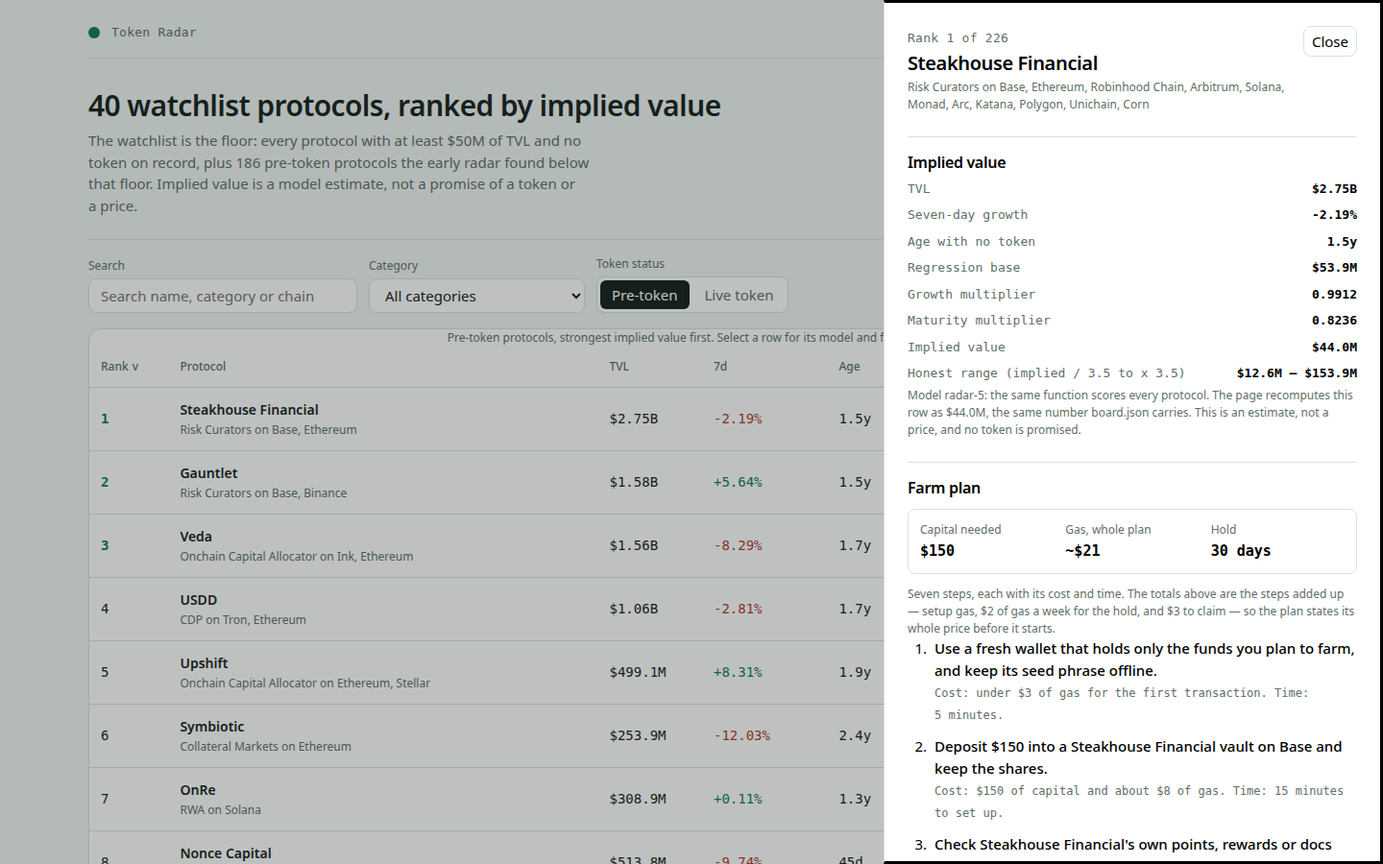
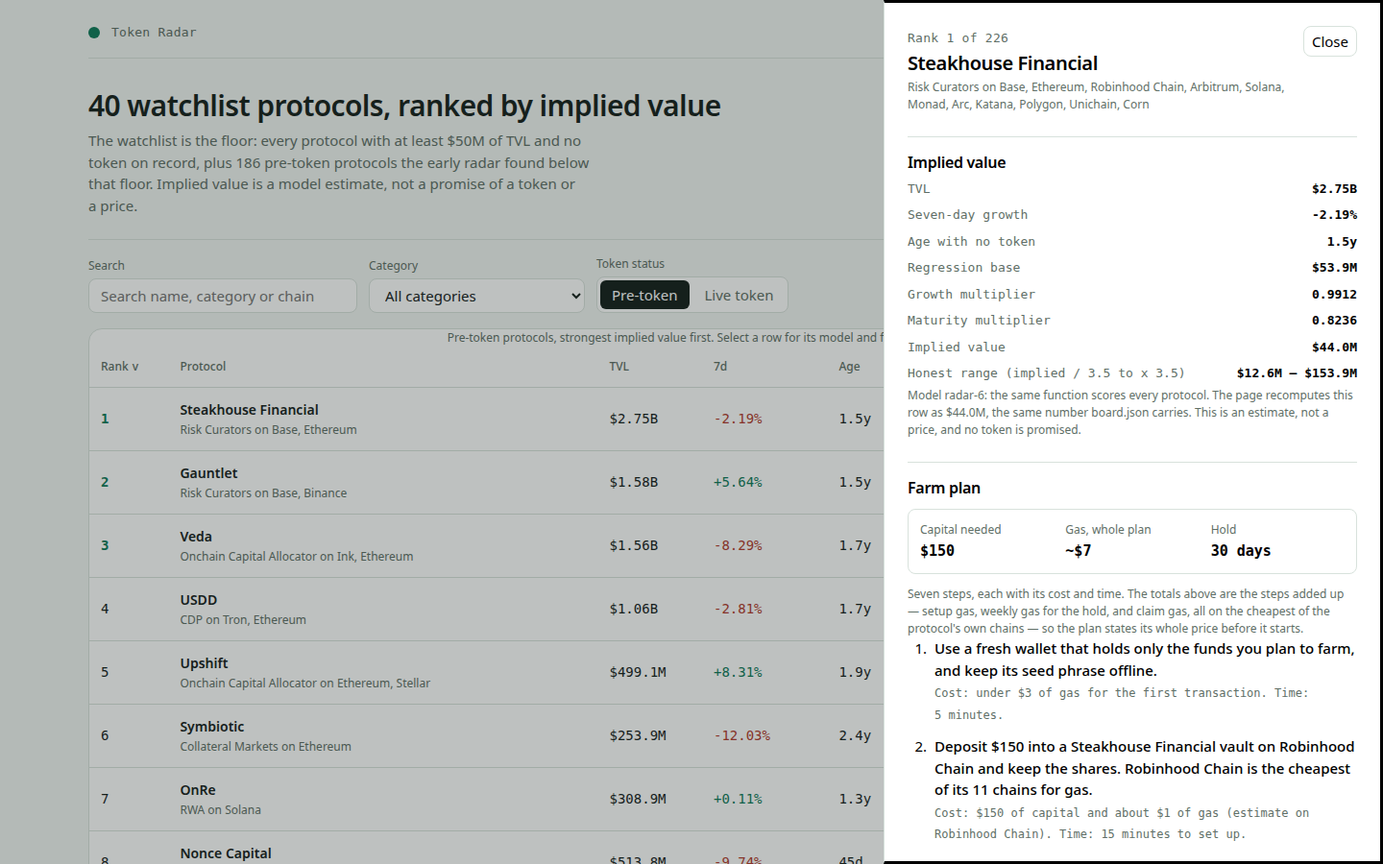
radar-6: farm plans differ per protocol - category weekly action, points page, risk note, cheapest chain, tiered gas

Changed region(s): [[0.6562, 0.84, 0.9688, 0.9956], [0.6562, 0.6844, 0.9688, 0.7467]]

diff --git a/lib/model.ts b/lib/model.ts
@@ -1,6 +1,6 @@
 import { createHash } from 'node:crypto';
 
-// radar-5: the token radar's scoring model.
+// radar-6: the token radar's scoring model.
 //
 // One sealed snapshot goes in, one ranked board comes out. The board always
 // covers the whole watchlist — the watchlist is a floor, never a ceiling —
@@ -59,7 +59,11 @@ import { createHash } from 'node:crypto';
 // discloses where the fit is biased by category instead of correcting for
 // it, because category offsets made the held-out error worse. Every farm
 // plan carries its totals — capital, gas, hold — added up from its own
-// steps, so the plan states its whole price before it starts.
+// steps, so the plan states its whole price before it starts. And no two
+// plans are the same template: the weekly action, the points page, the risk
+// note, the chain and the gas all follow from the protocol's own category
+// and chains, with gas tiered by chain and the cheapest of a protocol's own
+// chains chosen for the action.
 
 /** One protocol entry: exactly the ten fields the sealed input carries. */
 export interface SnapshotProtocol {
@@ -106,7 +110,7 @@ export const MODEL: ModelConstants = {
 };
 
 /** The model's version label: the dashboard names it. */
-export const MODEL_VERSION = 'radar-5';
+export const MODEL_VERSION = 'radar-6';
 
 /** Pre-token protocols below the watchlist floor the early radar carries, by TVL. */
 export const EARLY_ROWS = 260;
@@ -481,9 +485,36 @@ export function stepText(step: FarmStep): string {
   return s;
 }
 
-/** The first chain a protocol names, or a neutral phrase when it names none. */
-function chainOf(p: SnapshotProtocol): string {
-  return p.chains.length > 0 ? p.chains[0]! : 'its main chain';
+/** A chain's gas tier: how expensive its transactions are, in rough bands. Only Ethereum and Bitcoin sit in the high band; the named L2s sit in the middle; everything else — the cheap L1s and the chains this table does not name — sits in the low band. The figures are estimates, and the plan labels them as such. */
+export type GasTier = 'high' | 'mid' | 'low';
+
+const MID_TIER_CHAINS = new Set([
+  'Arbitrum', 'Optimism', 'Base', 'Polygon', 'zkSync Era', 'Linea', 'Scroll', 'Blast', 'Ink', 'Mode', 'Fraxtal', 'Mantle', 'Unichain', 'Sonic', 'Berachain', 'Hyperliquid L1', 'Monad', 'Plasma',
+]);
+
+/** Gas in dollars for one setup, one weekly action, and one claim, by tier. */
+const GAS_USD: Record<GasTier, { setup: number; weekly: number; claim: number }> = {
+  high: { setup: 15, weekly: 10, claim: 5 },
+  mid: { setup: 4, weekly: 2, claim: 2 },
+  low: { setup: 1, weekly: 1, claim: 1 },
+};
+
+/** A chain's gas tier from its name. */
+export function chainTier(chain: string): GasTier {
+  if (chain === 'Ethereum' || chain === 'Bitcoin') return 'high';
+  if (MID_TIER_CHAINS.has(chain)) return 'mid';
+  return 'low';
+}
+
+/** The cheapest chain a protocol runs on, by gas tier; ties keep the first chain the snapshot lists. */
+export function cheapestChain(p: SnapshotProtocol): { chain: string; tier: GasTier } {
+  if (p.chains.length === 0) return { chain: 'its main chain', tier: 'mid' };
+  const rank: Record<GasTier, number> = { high: 2, mid: 1, low: 0 };
+  let best = p.chains[0]!;
+  for (const chain of p.chains) {
+    if (rank[chainTier(chain)] < rank[chainTier(best)]) best = chain;
+  }
+  return { chain: best, tier: chainTier(best) };
 }
 
 /** The capital one farm position needs, from the protocol's own TVL. */
@@ -504,47 +535,115 @@ function holdDaysFor(age: number | null): number {
 
 /**
  * A farm plan's totals, added up from the plan's own numbers: the setup gas
- * of step 2, $2 of gas a week for the hold from step 4, and $3 to claim from
- * step 6. The summary and the steps are one arithmetic, so they can never
- * disagree — and a reader sees the whole cost of a plan before reading it.
+ * of step 2, the weekly gas for the hold from step 4, and the claim gas —
+ * all on the cheapest of the protocol's own chains. The summary and the
+ * steps are one arithmetic, so they can never disagree — and a reader sees
+ * the whole cost of a plan before reading it.
  */
 export function farmSummary(p: SnapshotProtocol, age: number | null): FarmSummary {
   const capital = capitalFor(p);
   const hold = holdDaysFor(age);
   const weeks = Math.ceil(hold / 7);
-  const setupGas = capital >= 150 ? 8 : 4;
-  return { capital_usd: capital, gas_usd: setupGas + 2 * weeks + 3, hold_days: hold };
+  const gas = GAS_USD[cheapestChain(p).tier];
+  return { capital_usd: capital, gas_usd: gas.setup + gas.weekly * weeks + gas.claim, hold_days: hold };
+}
+
+/** One of the eleven kinds a category falls into, in the order the branches below check. */
+type CategoryKind = 'lending' | 'dex' | 'bridge' | 'staking' | 'perps' | 'prediction' | 'curator' | 'stable' | 'rwa' | 'insurance' | 'other';
+
+/** A protocol's kind from its category name, lowercased. */
+function categoryKind(p: SnapshotProtocol): CategoryKind {
+  const c = (p.category ?? '').toLowerCase();
+  if (c.includes('lend') || c.includes('cdp') || c.includes('collateral')) return 'lending';
+  if (c.includes('dex') || c.includes('yield') || c.includes('leveraged farm')) return 'dex';
+  if (c.includes('bridge')) return 'bridge';
+  if (c.includes('staking') || c.includes('restak')) return 'staking';
+  if (c.includes('perpetual') || c.includes('derivative')) return 'perps';
+  if (c.includes('prediction')) return 'prediction';
+  if (c.includes('curator') || c.includes('allocator')) return 'curator';
+  if (c.includes('stable')) return 'stable';
+  if (c.includes('rwa')) return 'rwa';
+  if (c.includes('insurance')) return 'insurance';
+  return 'other';
 }
 
 /** The one action for a category, in words a farmer can follow. */
 function actionFor(p: SnapshotProtocol, capital: number, chain: string): string {
-  const c = (p.category ?? '').toLowerCase();
   const name = p.name;
-  if (c.includes('lend') || c.includes('cdp') || c.includes('collateral')) return `Supply $${capital} of USDC to ${name} on ${chain} and keep the position open.`;
-  if (c.includes('dex') || c.includes('yield') || c.includes('leveraged farm')) return `Provide $${capital} of liquidity to ${name}'s main pool on ${chain} and keep the position open.`;
-  if (c.includes('bridge')) return `Bridge $${capital} of USDC to ${chain} through ${name} and use the bridged funds in its app.`;
-  if (c.includes('staking') || c.includes('restak')) return `Stake $${capital} of the chain's staking asset through ${name} and keep the receipt.`;
-  if (c.includes('perpetual') || c.includes('derivative')) return `Deposit $${capital} of USDC as margin on ${name} and open one small hedge.`;
-  if (c.includes('prediction')) return `Fund $${capital} and place one market position on ${name}.`;
-  if (c.includes('curator') || c.includes('allocator')) return `Deposit $${capital} into a ${name} vault on ${chain} and keep the shares.`;
-  if (c.includes('stable')) return `Mint or deposit $${capital} of the stable asset through ${name} on ${chain}.`;
-  if (c.includes('rwa')) return `Mint $${capital} of the protocol's yield asset on ${chain} and hold it.`;
-  if (c.includes('insurance')) return `Buy $${capital} of cover from ${name} on ${chain} and keep the policy.`;
-  return `Deposit $${capital} of USDC into ${name} on ${chain} and keep the position open.`;
+  switch (categoryKind(p)) {
+    case 'lending': return `Supply $${capital} of USDC to ${name} on ${chain} and keep the position open.`;
+    case 'dex': return `Provide $${capital} of liquidity to ${name}'s main pool on ${chain} and keep the position open.`;
+    case 'bridge': return `Bridge $${capital} of USDC to ${chain} through ${name} and use the bridged funds in its app.`;
+    case 'staking': return `Stake $${capital} of the chain's staking asset through ${name} and keep the receipt.`;
+    case 'perps': return `Deposit $${capital} of USDC as margin on ${name} and open one small hedge.`;
+    case 'prediction': return `Fund $${capital} and place one market position on ${name}.`;
+    case 'curator': return `Deposit $${capital} into a ${name} vault on ${chain} and keep the shares.`;
+    case 'stable': return `Mint or deposit $${capital} of the stable asset through ${name} on ${chain}.`;
+    case 'rwa': return `Mint $${capital} of the protocol's yield asset on ${chain} and hold it.`;
+    case 'insurance': return `Buy $${capital} of cover from ${name} on ${chain} and keep the policy.`;
+    default: return `Deposit $${capital} of USDC into ${name} on ${chain} and keep the position open.`;
+  }
+}
+
+/** The page to check for points or rewards: the protocol's own page for the thing it actually does. */
+function pointsCheckFor(p: SnapshotProtocol): string {
+  const name = p.name;
+  switch (categoryKind(p)) {
+    case 'curator': return `Check ${name}'s vault allocation and rewards page and note exactly which vault actions it counts, if any.`;
+    case 'perps': return `Check ${name}'s trading rewards and fees page and note exactly which trades it counts, if any.`;
+    case 'staking': return `Check ${name}'s staking rewards and unstaking page and note exactly which stakes it counts, if any.`;
+    case 'bridge': return `Check ${name}'s bridging rewards page and note exactly which transfers it counts, if any.`;
+    case 'dex': return `Check ${name}'s liquidity rewards page and note exactly which pools it counts, if any.`;
+    default: return `Check ${name}'s own points, rewards or docs page and note exactly which actions it counts, if any.`;
+  }
+}
+
+/** The weekly action: one small qualifying action, in the protocol's own terms, not a generic list. */
+function weeklyActionFor(p: SnapshotProtocol): string {
+  const name = p.name;
+  switch (categoryKind(p)) {
+    case 'lending': return `Each week, supply a little more to ${name}, or repay and reborrow a small amount.`;
+    case 'dex': return `Each week, add a small amount of liquidity, or make one swap, on ${name}.`;
+    case 'bridge': return `Each week, bridge a small amount back, or use the bridged funds in ${name}'s app.`;
+    case 'staking': return `Each week, restake the rewards, or add a small stake, through ${name}.`;
+    case 'perps': return `Each week, open and close one small hedge on ${name}.`;
+    case 'prediction': return `Each week, place one small market position on ${name}.`;
+    case 'curator': return `Each week, check the vault's allocation and top up or rebalance a small amount in ${name}.`;
+    case 'stable': return `Each week, hold the position and check the peg on ${name}.`;
+    case 'rwa': return `Each week, hold the position and check the yield page on ${name}.`;
+    case 'insurance': return `Each week, keep the policy and check its renewal terms on ${name}.`;
+    default: return `Each week, make one qualifying action in ${name}'s own app.`;
+  }
+}
+
+/** The risk clause for a category, added to the safety step: what can actually go wrong here. */
+function riskNoteFor(p: SnapshotProtocol): string {
+  switch (categoryKind(p)) {
+    case 'perps': return ` Leverage can liquidate a position fast, so keep the hedge small.`;
+    case 'lending': return ` Watch borrow utilisation and liquidation prices before adding to a borrow.`;
+    case 'dex': return ` Liquidity can lose value to impermanent loss, so keep the position small.`;
+    case 'bridge': return ` Check the destination chain and finality before bridging.`;
+    case 'staking': return ` Unstaking can take days, so do not stake funds you may need soon.`;
+    default: return ``;
+  }
 }
 
 /**
  * A protocol's farm plan: seven steps, each an action with a cost and a time.
- * The plan is derived from the protocol's own record (category, chains, TVL,
- * age), never from a hand-written list of names. No step promises a token or
+ * Every step is derived from the protocol's own record (category, chains,
+ * TVL, age), never from a hand-written list of names: the action, the weekly
+ * action, the points page, the risk note, the chain and the gas all follow
+ * from what the protocol is and where it runs. No step promises a token or
  * an airdrop: the protocol records no token, and a farm plan is a way to use
  * it, not a guarantee of a launch.
  */
 export function farmSteps(p: SnapshotProtocol, age: number | null): FarmStep[] {
-  const chain = chainOf(p);
+  const best = cheapestChain(p);
   const capital = capitalFor(p);
   const hold = holdDaysFor(age);
-  const action = actionFor(p, capital, chain);
+  const gas = GAS_USD[best.tier];
+  const action = actionFor(p, capital, best.chain);
+  const multiChain = p.chains.length > 1 ? ` ${best.chain} is the cheapest of its ${p.chains.length} chains for gas.` : ``;
   return [
     {
       text: `Use a fresh wallet that holds only the funds you plan to farm, and keep its seed phrase offline.`,
@@ -552,18 +651,18 @@ export function farmSteps(p: SnapshotProtocol, age: number | null): FarmStep[] {
       time: '5 minutes',
     },
     {
-      text: action,
-      cost: `$${capital} of capital and about $${capital >= 150 ? 8 : 4} of gas`,
+      text: `${action}${multiChain}`,
+      cost: `$${capital} of capital and about $${gas.setup} of gas (estimate on ${best.chain})`,
       time: '15 minutes to set up',
     },
     {
-      text: `Check ${p.name}'s own points, rewards or docs page and note exactly which actions it counts, if any.`,
+      text: pointsCheckFor(p),
       cost: 'no fee to check',
       time: '10 minutes',
     },
     {
-      text: `Make one qualifying action each week, such as a deposit, a borrow, a swap or a vote.`,
-      cost: 'about $2 of gas a week',
+      text: weeklyActionFor(p),
+      cost: `about $${gas.weekly} of gas a week (estimate)`,
       time: '10 minutes a week',
     },
     {
@@ -572,7 +671,7 @@ export function farmSteps(p: SnapshotProtocol, age: number | null): FarmStep[] {
       time: `${hold} days`,
     },
     {
-      text: `Never pay to claim, never sign a blind transaction, and never share a seed phrase; a real claim costs only gas.`,
+      text: `Never pay to claim, never sign a blind transaction, and never share a seed phrase; a real claim costs only gas.${riskNoteFor(p)}`,
       cost: 'no fee to check, and never pay to claim',
       time: '5 minutes',
     },

diff --git a/dashboard/app.js b/dashboard/app.js
@@ -69,9 +69,25 @@
   }
 
   // The farm plan is the same derivation main.ts writes to board.json:
-  // category, chains, TVL and age decide the action, the capital, the hold
-  // and every cost and time. No name is special-cased.
-  function chainOf(p) { return p.chains && p.chains.length > 0 ? p.chains[0] : 'its main chain'; }
+  // category, chains, TVL and age decide the action, the weekly action, the
+  // points page, the risk note, the cheapest chain and every cost and time.
+  // No name is special-cased. This mirror must stay byte-identical to the
+  // model's farmSteps: the detail drawer rebuilds the plan from data.js,
+  // and a mismatch would show a different plan than board.json carries.
+  var MID_TIER_CHAINS = ['Arbitrum', 'Optimism', 'Base', 'Polygon', 'zkSync Era', 'Linea', 'Scroll', 'Blast', 'Ink', 'Mode', 'Fraxtal', 'Mantle', 'Unichain', 'Sonic', 'Berachain', 'Hyperliquid L1', 'Monad', 'Plasma'];
+  var GAS_USD = { high: { setup: 15, weekly: 10, claim: 5 }, mid: { setup: 4, weekly: 2, claim: 2 }, low: { setup: 1, weekly: 1, claim: 1 } };
+  function chainTier(chain) {
+    if (chain === 'Ethereum' || chain === 'Bitcoin') return 'high';
+    if (MID_TIER_CHAINS.indexOf(chain) >= 0) return 'mid';
+    return 'low';
+  }
+  function cheapestChain(p) {
+    if (!p.chains || p.chains.length === 0) return { chain: 'its main chain', tier: 'mid' };
+    var rank = { high: 2, mid: 1, low: 0 };
+    var best = p.chains[0];
+    p.chains.forEach(function (chain) { if (rank[chainTier(chain)] < rank[chainTier(best)]) best = chain; });
+    return { chain: best, tier: chainTier(best) };
+  }
   function capitalFor(p) {
     if (p.tvl_usd >= 5e9) return 250;
     if (p.tvl_usd >= 1e9) return 150;
@@ -84,20 +100,72 @@
     if (age < 365) return 45;
     return 30;
   }
-  function actionFor(p, capital, chain) {
+  function categoryKind(p) {
     var c = (p.category || '').toLowerCase();
+    if (c.indexOf('lend') >= 0 || c.indexOf('cdp') >= 0 || c.indexOf('collateral') >= 0) return 'lending';
+    if (c.indexOf('dex') >= 0 || c.indexOf('yield') >= 0 || c.indexOf('leveraged farm') >= 0) return 'dex';
+    if (c.indexOf('bridge') >= 0) return 'bridge';
+    if (c.indexOf('staking') >= 0 || c.indexOf('restak') >= 0) return 'staking';
+    if (c.indexOf('perpetual') >= 0 || c.indexOf('derivative') >= 0) return 'perps';
+    if (c.indexOf('prediction') >= 0) return 'prediction';
+    if (c.indexOf('curator') >= 0 || c.indexOf('allocator') >= 0) return 'curator';
+    if (c.indexOf('stable') >= 0) return 'stable';
+    if (c.indexOf('rwa') >= 0) return 'rwa';
+    if (c.indexOf('insurance') >= 0) return 'insurance';
+    return 'other';
+  }
+  function actionFor(p, capital, chain) {
     var name = p.name;
-    if (c.indexOf('lend') >= 0 || c.indexOf('cdp') >= 0 || c.indexOf('collateral') >= 0) return 'Supply $' + capital + ' of USDC to ' + name + ' on ' + chain + ' and keep the position open.';
-    if (c.indexOf('dex') >= 0 || c.indexOf('yield') >= 0 || c.indexOf('leveraged farm') >= 0) return 'Provide $' + capital + ' of liquidity to ' + name + "'s main pool on " + chain + ' and keep the position open.';
-    if (c.indexOf('bridge') >= 0) return 'Bridge $' + capital + ' of USDC to ' + chain + ' through ' + name + ' and use the bridged funds in its app.';
-    if (c.indexOf('staking') >= 0 || c.indexOf('restak') >= 0) return "Stake $" + capital + " of the chain's staking asset through " + name + ' and keep the receipt.';
-    if (c.indexOf('perpetual') >= 0 || c.indexOf('derivative') >= 0) return 'Deposit $' + capital + ' of USDC as margin on ' + name + ' and open one small hedge.';
-    if (c.indexOf('prediction') >= 0) return 'Fund $' + capital + ' and place one market position on ' + name + '.';
-    if (c.indexOf('curator') >= 0 || c.indexOf('allocator') >= 0) return 'Deposit $' + capital + ' into a ' + name + ' vault on ' + chain + ' and keep the shares.';
-    if (c.indexOf('stable') >= 0) return 'Mint or deposit $' + capital + ' of the stable asset through ' + name + ' on ' + chain + '.';
-    if (c.indexOf('rwa') >= 0) return "Mint $" + capital + " of the protocol's yield asset on " + chain + ' and hold it.';
-    if (c.indexOf('insurance') >= 0) return 'Buy $' + capital + ' of cover from ' + name + ' on ' + chain + ' and keep the policy.';
-    return 'Deposit $' + capital + ' of USDC into ' + name + ' on ' + chain + ' and keep the position open.';
+    switch (categoryKind(p)) {
+      case 'lending': return 'Supply $' + capital + ' of USDC to ' + name + ' on ' + chain + ' and keep the position open.';
+      case 'dex': return 'Provide $' + capital + ' of liquidity to ' + name + "'s main pool on " + chain + ' and keep the position open.';
+      case 'bridge': return 'Bridge $' + capital + ' of USDC to ' + chain + ' through ' + name + ' and use the bridged funds in its app.';
+      case 'staking': return "Stake $" + capital + " of the chain's staking asset through " + name + ' and keep the receipt.';
+      case 'perps': return 'Deposit $' + capital + ' of USDC as margin on ' + name + ' and open one small hedge.';
+      case 'prediction': return 'Fund $' + capital + ' and place one market position on ' + name + '.';
+      case 'curator': return 'Deposit $' + capital + ' into a ' + name + ' vault on ' + chain + ' and keep the shares.';
+      case 'stable': return 'Mint or deposit $' + capital + ' of the stable asset through ' + name + ' on ' + chain + '.';
+      case 'rwa': return "Mint $" + capital + " of the protocol's yield asset on " + chain + ' and hold it.';
+      case 'insurance': return 'Buy $' + capital + ' of cover from ' + name + ' on ' + chain + ' and keep the policy.';
+      default: return 'Deposit $' + capital + ' of USDC into ' + name + ' on ' + chain + ' and keep the position open.';
+    }
+  }
+  function pointsCheckFor(p) {
+    var name = p.name;
+    switch (categoryKind(p)) {
+      case 'curator': return "Check " + name + "'s vault allocation and rewards page and note exactly which vault actions it counts, if any.";
+      case 'perps': return "Check " + name + "'s trading rewards and fees page and note exactly which trades it counts, if any.";
+      case 'staking': return "Check " + name + "'s staking rewards and unstaking page and note exactly which stakes it counts, if any.";
+      case 'bridge': return "Check " + name + "'s bridging rewards page and note exactly which transfers it counts, if any.";
+      case 'dex': return "Check " + name + "'s liquidity rewards page and note exactly which pools it counts, if any.";
+      default: return "Check " + name + "'s own points, rewards or docs page and note exactly which actions it counts, if any.";
+    }
+  }
+  function weeklyActionFor(p) {
+    var name = p.name;
+    switch (categoryKind(p)) {
+      case 'lending': return 'Each week, supply a little more to ' + name + ', or repay and reborrow a small amount.';
+      case 'dex': return 'Each week, add a small amount of liquidity, or make one swap, on ' + name + '.';
+      case 'bridge': return 'Each week, bridge a small amount back, or use the bridged funds in ' + name + "'s app.";
+      case 'staking': return 'Each week, restake the rewards, or add a small stake, through ' + name + '.';
+      case 'perps': return 'Each week, open and close one small hedge on ' + name + '.';
+      case 'prediction': return 'Each week, place one small market position on ' + name + '.';
+      case 'curator': return 'Each week, check the vault\'s allocation and top up or rebalance a small amount in ' + name + '.';
+      case 'stable': return 'Each week, hold the position and check the peg on ' + name + '.';
+      case 'rwa': return 'Each week, hold the position and check the yield page on ' + name + '.';
+      case 'insurance': return 'Each week, keep the policy and check its renewal terms on ' + name + '.';
+      default: return 'Each week, make one qualifying action in ' + name + "'s own app.";
+    }
+  }
+  function riskNoteFor(p) {
+    switch (categoryKind(p)) {
+      case 'perps': return ' Leverage can liquidate a position fast, so keep the hedge small.';
+      case 'lending': return ' Watch borrow utilisation and liquidation prices before adding to a borrow.';
+      case 'dex': return ' Liquidity can lose value to impermanent loss, so keep the position small.';
+      case 'bridge': return ' Check the destination chain and finality before bridging.';
+      case 'staking': return ' Unstaking can take days, so do not stake funds you may need soon.';
+      default: return '';
+    }
   }
   function stepText(step) {
     var s = step.text + ' Cost: ' + step.cost + '. Time: ' + step.time + '.';
@@ -106,16 +174,18 @@
     return s;
   }
   function farmSteps(p) {
-    var chain = chainOf(p);
+    var best = cheapestChain(p);
     var capital = capitalFor(p);
     var hold = holdDaysFor(p.age_days);
+    var gas = GAS_USD[best.tier];
+    var multiChain = p.chains && p.chains.length > 1 ? ' ' + best.chain + ' is the cheapest of its ' + p.chains.length + ' chains for gas.' : '';
     return [
       { text: 'Use a fresh wallet that holds only the funds you plan to farm, and keep its seed phrase offline.', cost: 'under $3 of gas for the first transaction', time: '5 minutes' },
-      { text: actionFor(p, capital, chain), cost: '$' + capital + ' of capital and about $' + (capital >= 150 ? 8 : 4) + ' of gas', time: '15 minutes to set up' },
-      { text: "Check " + p.name + "'s own points, rewards or docs page and note exactly which actions it counts, if any.", cost: 'no fee to check', time: '10 minutes' },
-      { text: 'Make one qualifying action each week, such as a deposit, a borrow, a swap or a vote.', cost: 'about $2 of gas a week', time: '10 minutes a week' },
+      { text: actionFor(p, capital, best.chain) + multiChain, cost: '$' + capital + ' of capital and about $' + gas.setup + ' of gas (estimate on ' + best.chain + ')', time: '15 minutes to set up' },
+      { text: pointsCheckFor(p), cost: 'no fee to check', time: '10 minutes' },
+      { text: weeklyActionFor(p), cost: 'about $' + gas.weekly + ' of gas a week (estimate)', time: '10 minutes a week' },
       { text: 'Hold the position for at least ' + hold + ' days so the activity is counted in more than one snapshot.', cost: 'the $' + capital + ' stays in the position', time: hold + ' days' },
-      { text: 'Never pay to claim, never sign a blind transaction, and never share a seed phrase; a real claim costs only gas.', cost: 'no fee to check, and never pay to claim', time: '5 minutes' },
+      { text: 'Never pay to claim, never sign a blind transaction, and never share a seed phrase; a real claim costs only gas.' + riskNoteFor(p), cost: 'no fee to check, and never pay to claim', time: '5 minutes' },
       { text: "Before you withdraw, open the protocol's own points or rewards page and claim only from the link it publishes, then log the wallet, dates and every transaction.", cost: 'nothing but the log', time: '10 minutes' }
     ].map(stepText);
   }
@@ -543,7 +613,7 @@
     ) : null;
     var farmSection = el('section', { class: 'detail-section' },
       el('h3', { text: 'Farm plan' }),
-      el('p', { class: 'sub', text: 'Seven steps, each with its cost and time. The totals above are the steps added up — setup gas, $2 of gas a week for the hold, and $3 to claim — so the plan states its whole price before it starts.' }),
+      el('p', { class: 'sub', text: 'Seven steps, each with its cost and time. The totals above are the steps added up — setup gas, weekly gas for the hold, and claim gas, all on the cheapest of the protocol\'s own chains — so the plan states its whole price before it starts.' }),
       el('ol', { class: 'steps' }, steps.map(function (s) {
         var at = s.indexOf(' Cost: ');
         var action = at >= 0 ? s.slice(0, at) : s;

diff --git a/README.md b/README.md
@@ -4,7 +4,7 @@
 [![rank](https://make.fun/badge/token-radar-01/DropsterMind/token-radar-01/rank.svg)](https://make.fun/bounty/token-radar-01/leaderboard?utm_source=github&utm_medium=readme&utm_campaign=token-radar-01)
 [![reward](https://make.fun/badge/token-radar-01/DropsterMind/token-radar-01/reward.svg)](https://make.fun/bounty/token-radar-01?utm_source=github&utm_medium=readme&utm_campaign=token-radar-01)
 
-Token Radar ranks pre-token protocols by implied value, from a sealed DefiLlama snapshot (14 Nov 2026, 758 protocols). It covers all 40 watchlist protocols plus every other rankable pre-token protocol in the snapshot — 226 rows in all. Implied value starts from a log-log regression fitted on the snapshot's own live-token protocols (log(mcap) = 8.485 + 0.429 x log(TVL)): value grows sub-linearly with TVL, because mcap/TVL falls as protocols get bigger. The base is adjusted for 7-day growth and for age with no token — launch-readiness adjustments, not value predictors — and every row shows an honest range of implied / 3.5 to implied x 3.5. That range is measured, not guessed: a 5-fold held-out check of the regression on live tokens gives a median error of 1.26 log units (x3.5), beating a flat peer multiple (x4.9) and a category-median model (x4.9); category offsets overfit and growth adds nothing. The board's head is robust: scored five times with the growth and maturity adjustments changed, the top 5 never move and 8–10 of the top 10 survive every setting, so the regression — not the chosen weights — does the ranking. The fit's bias is disclosed, not corrected: Liquid Staking is over-predicted by x0.47 and Basis Trading under-predicted by x1.78, but category offsets made the held-out error worse, so the board shows the bias instead of hiding it. The static dashboard is sortable, filterable and searchable, with a per-protocol detail view, the model's formula and validation table, sensitivity and fit-bias panels, an implied-value distribution chart, per-category coverage, and a concrete 7-step farm plan for every row. No token is promised: a protocol records no token, which is not proof it has none, and a farm plan is a way to use it, not a guarantee of a launch.
+Token Radar ranks pre-token protocols by implied value, from a sealed DefiLlama snapshot (14 Nov 2026, 758 protocols). It covers all 40 watchlist protocols plus every other rankable pre-token protocol in the snapshot — 226 rows in all. Implied value starts from a log-log regression fitted on the snapshot's own live-token protocols (log(mcap) = 8.485 + 0.429 x log(TVL)): value grows sub-linearly with TVL, because mcap/TVL falls as protocols get bigger. The base is adjusted for 7-day growth and for age with no token — launch-readiness adjustments, not value predictors — and every row shows an honest range of implied / 3.5 to implied x 3.5. That range is measured, not guessed: a 5-fold held-out check of the regression on live tokens gives a median error of 1.26 log units (x3.5), beating a flat peer multiple (x4.9) and a category-median model (x4.9); category offsets overfit and growth adds nothing. The board's head is robust: scored five times with the growth and maturity adjustments changed, the top 5 never move and 8–10 of the top 10 survive every setting, so the regression — not the chosen weights — does the ranking. The fit's bias is disclosed, not corrected: Liquid Staking is over-predicted by x0.47 and Basis Trading under-predicted by x1.78, but category offsets made the held-out error worse, so the board shows the bias instead of hiding it. Every farm plan is built from the protocol's own record, so no two plans are the same template: the action, the weekly action, the points page and the risk note follow its category, and the action runs on the cheapest of its own chains, with gas tiered by chain (Ethereum high, L2s mid, cheap chains low) and labelled as an estimate. Each plan states its totals up front — capital, gas, hold — added up from its own steps. The static dashboard is sortable, filterable and searchable, with a per-protocol detail view, the model's formula and validation table, sensitivity and fit-bias panels, an implied-value distribution chart, per-category coverage, and a concrete 7-step farm plan for every row. No token is promised: a protocol records no token, which is not proof it has none, and a farm plan is a way to use it, not a guarantee of a launch.
 
 ## Run it
 
